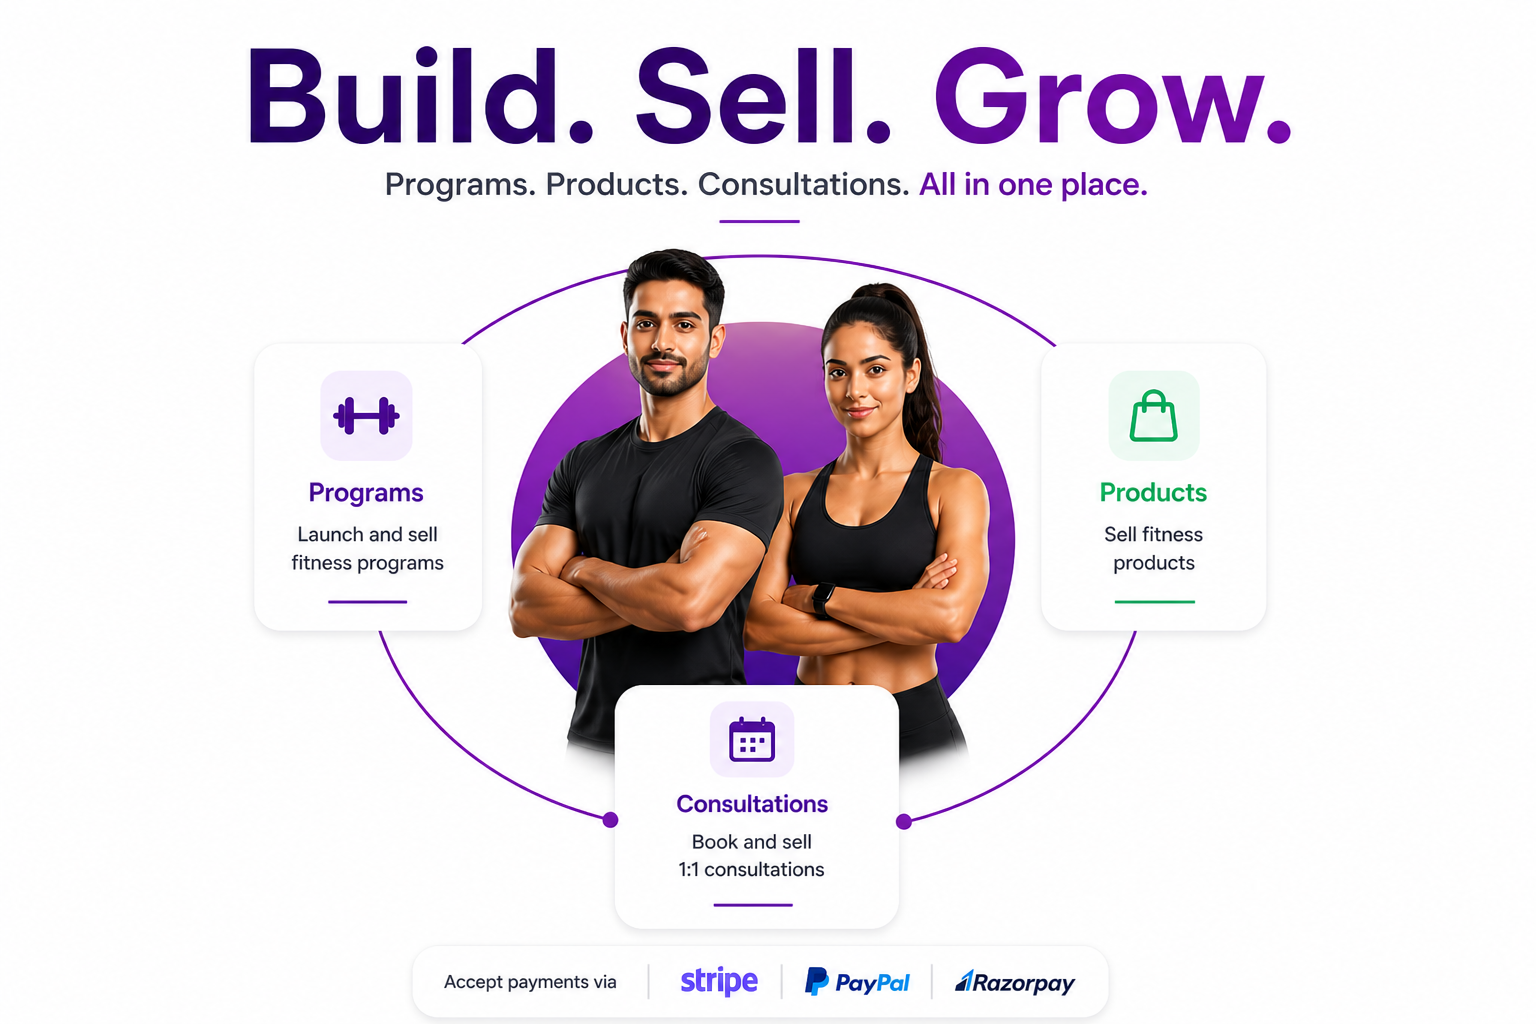
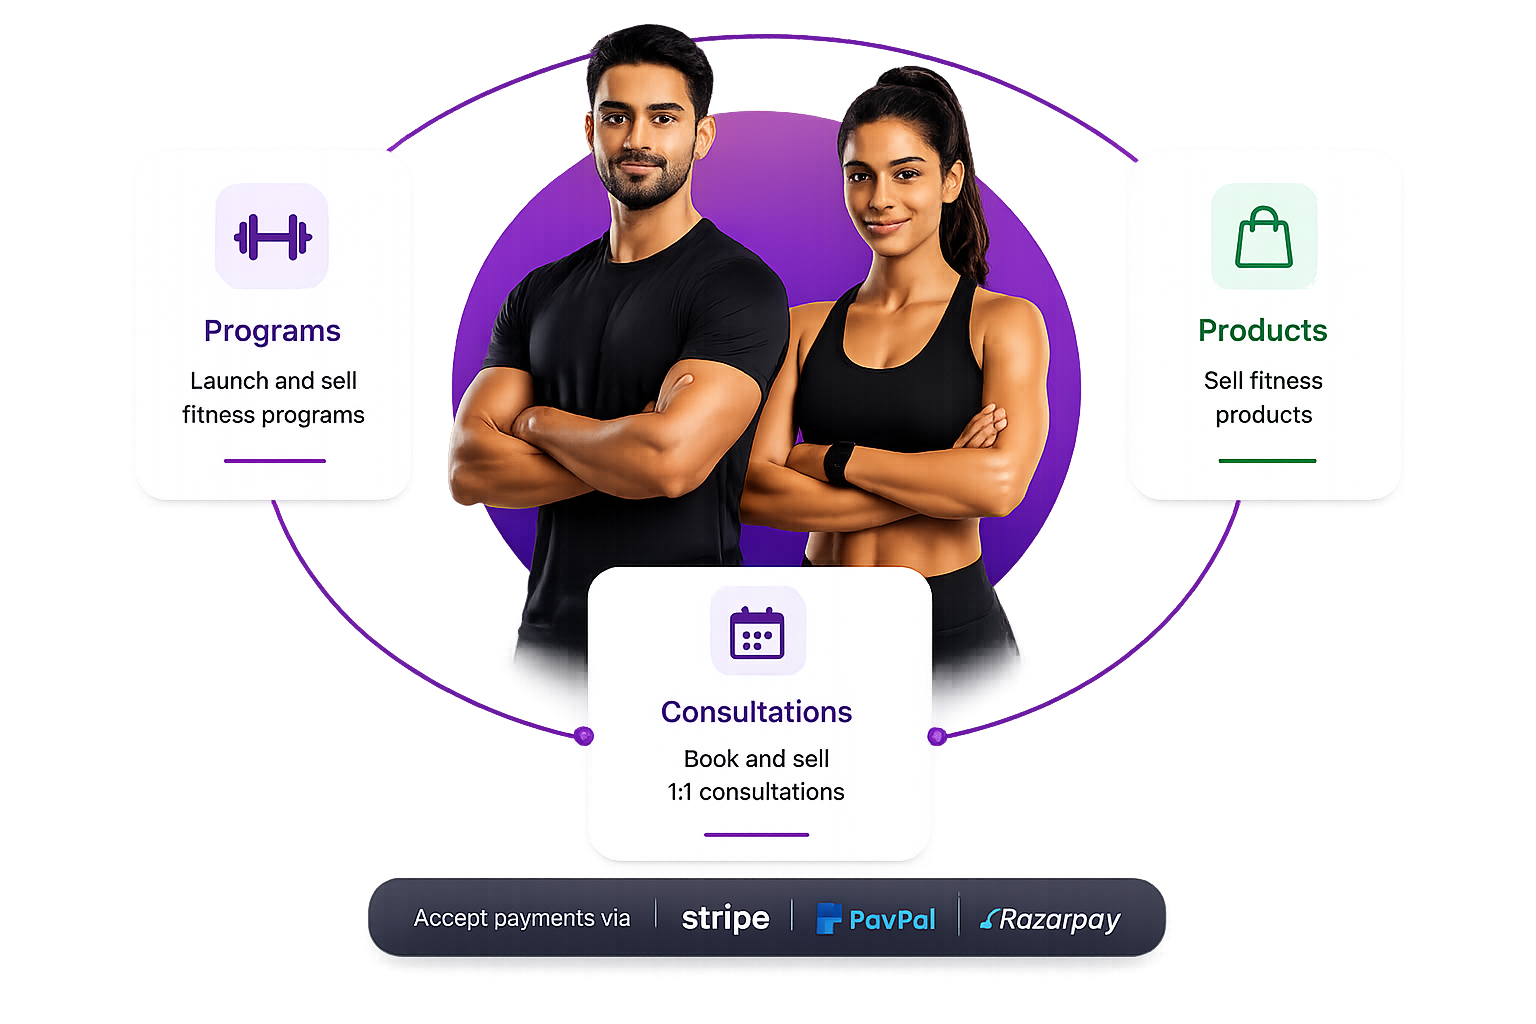
swith and quotaion UI

diff --git a/src/app/page.js b/src/app/page.js
@@ -22,6 +22,7 @@ export default function Home() {
   return (
     <>
       <Hero onOpenModal={() => setIsModalOpen(true)} />
+      <ClientLogos />
       <Problem />
       <Offer />
       <Benefits />
@@ -30,7 +31,6 @@ export default function Home() {
       <Services />
       {/* <QuoteCTA /> */}
       {/* <System /> */}
-      <ClientLogos />
       <Testimonials />
       {/* <FalcoonVideos /> */}
       <CTA />

diff --git a/src/app/components/hero.jsx b/src/app/components/hero.jsx
@@ -135,7 +135,7 @@ export default function Hero({ onOpenModal }) {
           </div>
 
           <img
-            src="/assets/images/falcoon_hero-image-v2.png"
+            src="/assets/images/falcoon_hero-image.png"
             alt="Falcoon Funnel Visual"
           />
         </div>
